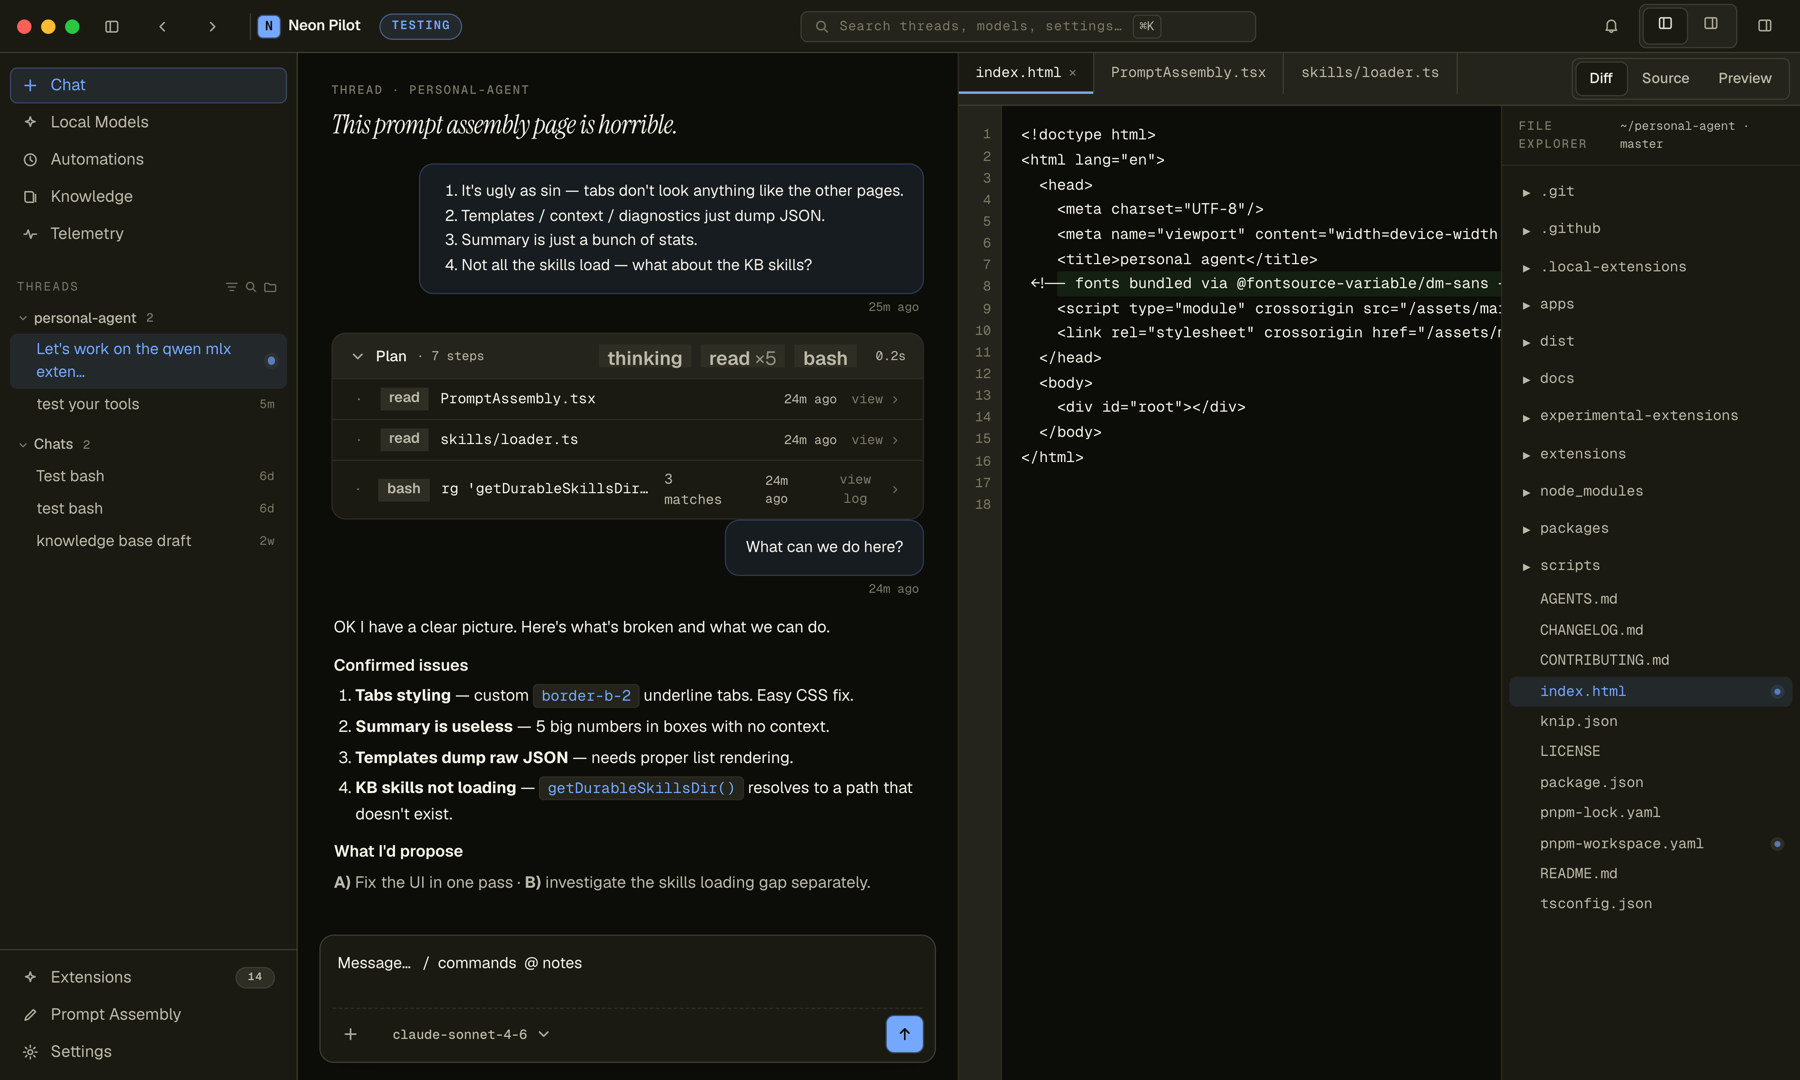
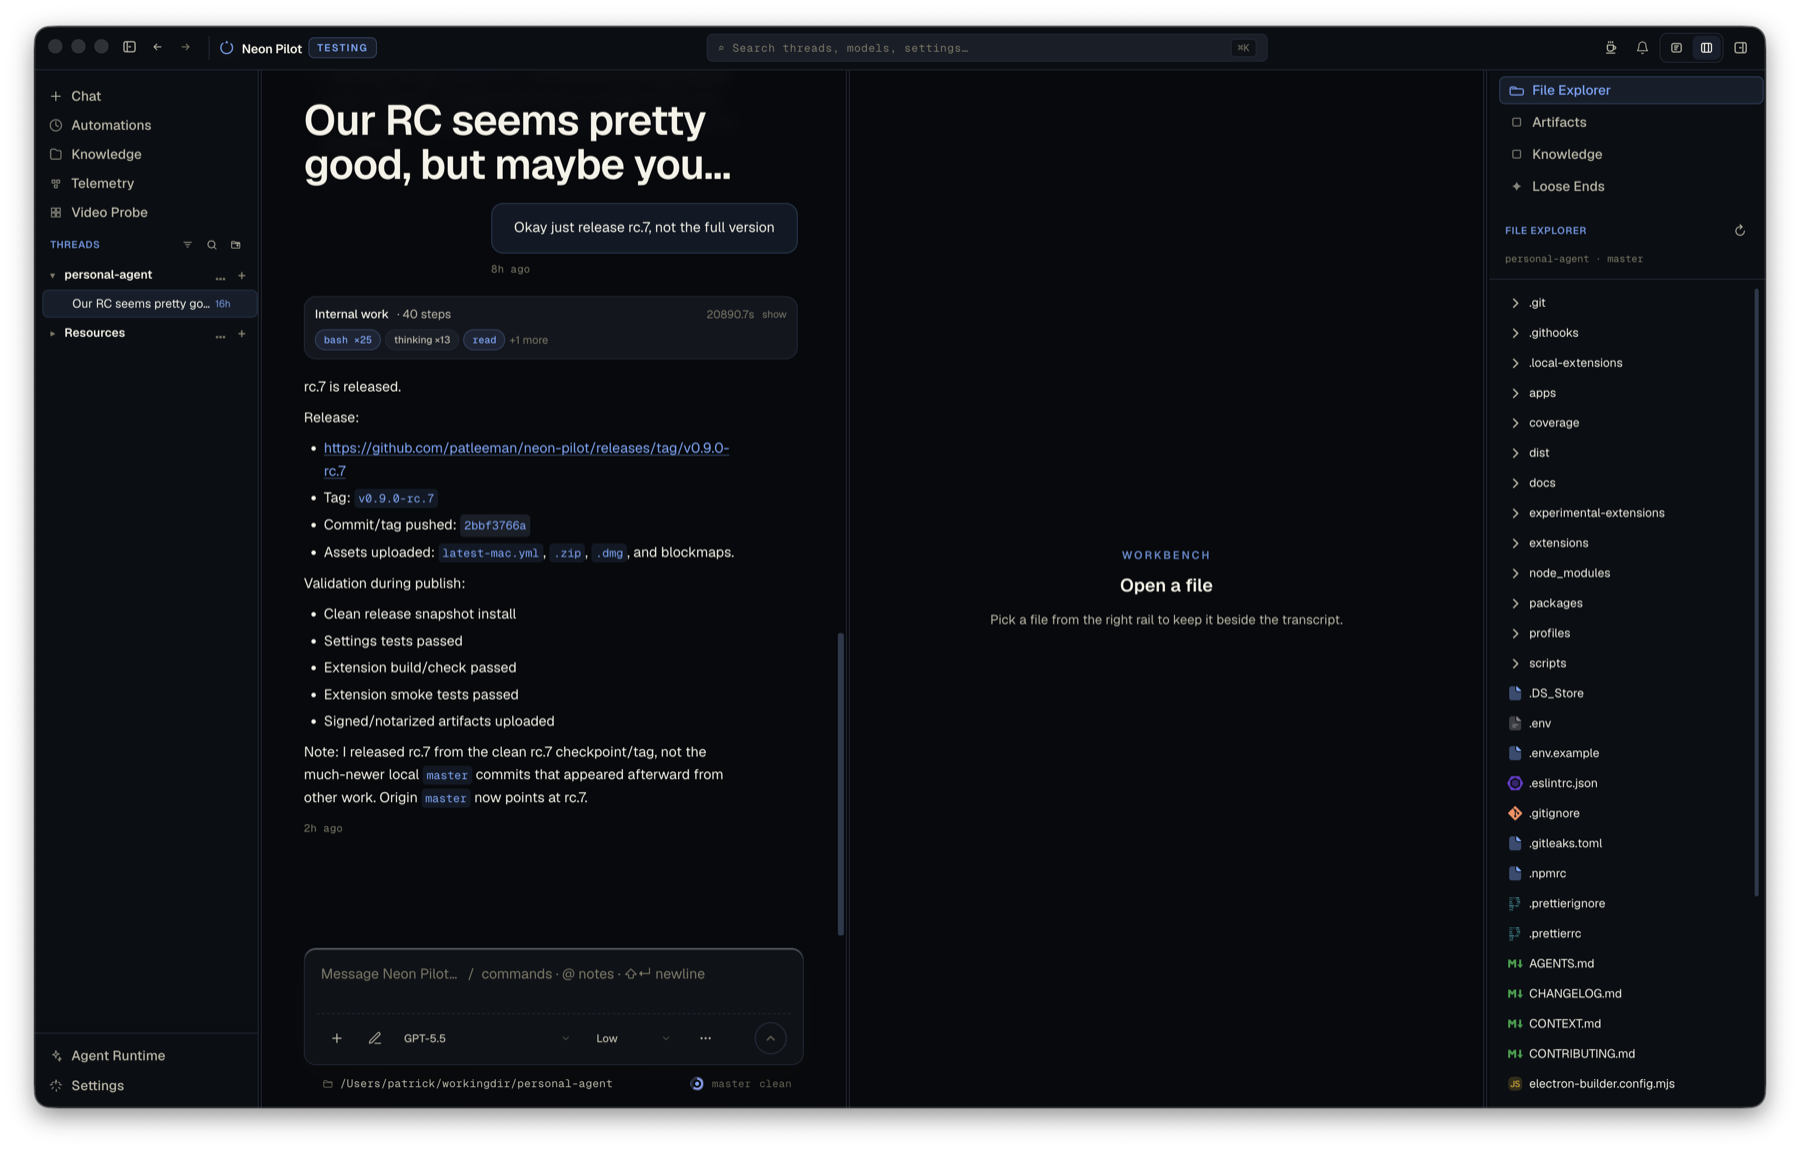
feat: use actual app screenshots on site

Changed region(s): [[0.0, 0.0, 1.0, 1.0], [0.1244, 0.8861, 0.1556, 0.9167]]

diff --git a/apps/site/index.html b/apps/site/index.html
@@ -138,6 +138,21 @@
         </article>
       </section>
 
+      <section class="surface-strip" aria-label="Neon Pilot product surfaces">
+        <figure>
+          <img src="./command-palette.png" alt="Neon Pilot command palette screenshot." />
+          <figcaption>Command palette</figcaption>
+        </figure>
+        <figure>
+          <img src="./extensions.png" alt="Neon Pilot extensions settings screenshot." />
+          <figcaption>Extensions</figcaption>
+        </figure>
+        <figure>
+          <img src="./settings.png" alt="Neon Pilot provider settings screenshot." />
+          <figcaption>Provider settings</figcaption>
+        </figure>
+      </section>
+
       <section id="self-extension" class="deep split">
         <div>
           <p class="eyebrow">Self-extension lifecycle</p>
@@ -157,13 +172,7 @@
       </section>
 
       <section id="extensions" class="deep split reverse">
-        <div class="extension-list panel">
-          <div class="panel-title">Extensions</div>
-          <div><strong>PR Analyzer</strong><span>LOCAL · Summarizes open pull requests.</span><i></i></div>
-          <div><strong>Release Publisher</strong><span>LOCAL · Packages, validates, and publishes builds.</span><i></i></div>
-          <div><strong>Log Triage</strong><span>SYSTEM · Searches logs and groups failures.</span><i></i></div>
-          <div><strong>Repo Cleanup</strong><span>LOCAL · Finds dead files and stale scripts.</span><i></i></div>
-        </div>
+        <figure class="screen-card"><img src="./extensions.png" alt="Extensions page in Neon Pilot." /></figure>
         <div>
           <p class="eyebrow">Extensions are the product surface</p>
           <h2>Capabilities are installed as extensions.</h2>
@@ -183,12 +192,7 @@
             want control.
           </p>
         </div>
-        <div class="provider panel">
-          <div><span>Default model</span><strong>GPT-5.5</strong></div>
-          <div><span>Vision model</span><strong>MiMo V2.5</strong></div>
-          <div><span>Low-cost tasks</span><strong>DeepSeek V4 Flash</strong></div>
-          <div><span>Local / offline</span><strong>OpenAI-compatible endpoint</strong></div>
-        </div>
+        <figure class="screen-card"><img src="./settings.png" alt="Model provider settings in Neon Pilot." /></figure>
       </section>
 
       <section id="pi" class="support">

diff --git a/apps/site/styles.css b/apps/site/styles.css
@@ -362,10 +362,48 @@ small,
 
 .app-shot img {
   width: 100%;
-  height: 260px;
+  height: 300px;
   border: 1px solid var(--line);
   border-radius: 4px;
   background: #070a0f;
+  object-fit: cover;
+  object-position: top center;
+}
+
+.surface-strip {
+  display: grid;
+  grid-template-columns: repeat(3, 1fr);
+  gap: 12px;
+  margin-top: 12px;
+}
+
+.surface-strip figure,
+.screen-card {
+  overflow: hidden;
+  border: 1px solid var(--line);
+  border-radius: var(--radius);
+  background: #070a0f;
+}
+
+.surface-strip img {
+  width: 100%;
+  height: 156px;
+  object-fit: cover;
+  object-position: top center;
+  opacity: 0.92;
+}
+
+.surface-strip figcaption {
+  padding: 11px 14px 12px;
+  border-top: 1px solid var(--line-soft);
+  color: #c7c4bc;
+  font-size: 0.82rem;
+  font-weight: 650;
+}
+
+.screen-card img {
+  width: 100%;
+  height: 318px;
   object-fit: cover;
   object-position: top center;
 }
@@ -642,6 +680,15 @@ footer a {
   }
 
   .app-shot img {
+    height: auto;
+  }
+
+  .surface-strip {
+    grid-template-columns: 1fr;
+  }
+
+  .surface-strip img,
+  .screen-card img {
     height: auto;
   }
 }
